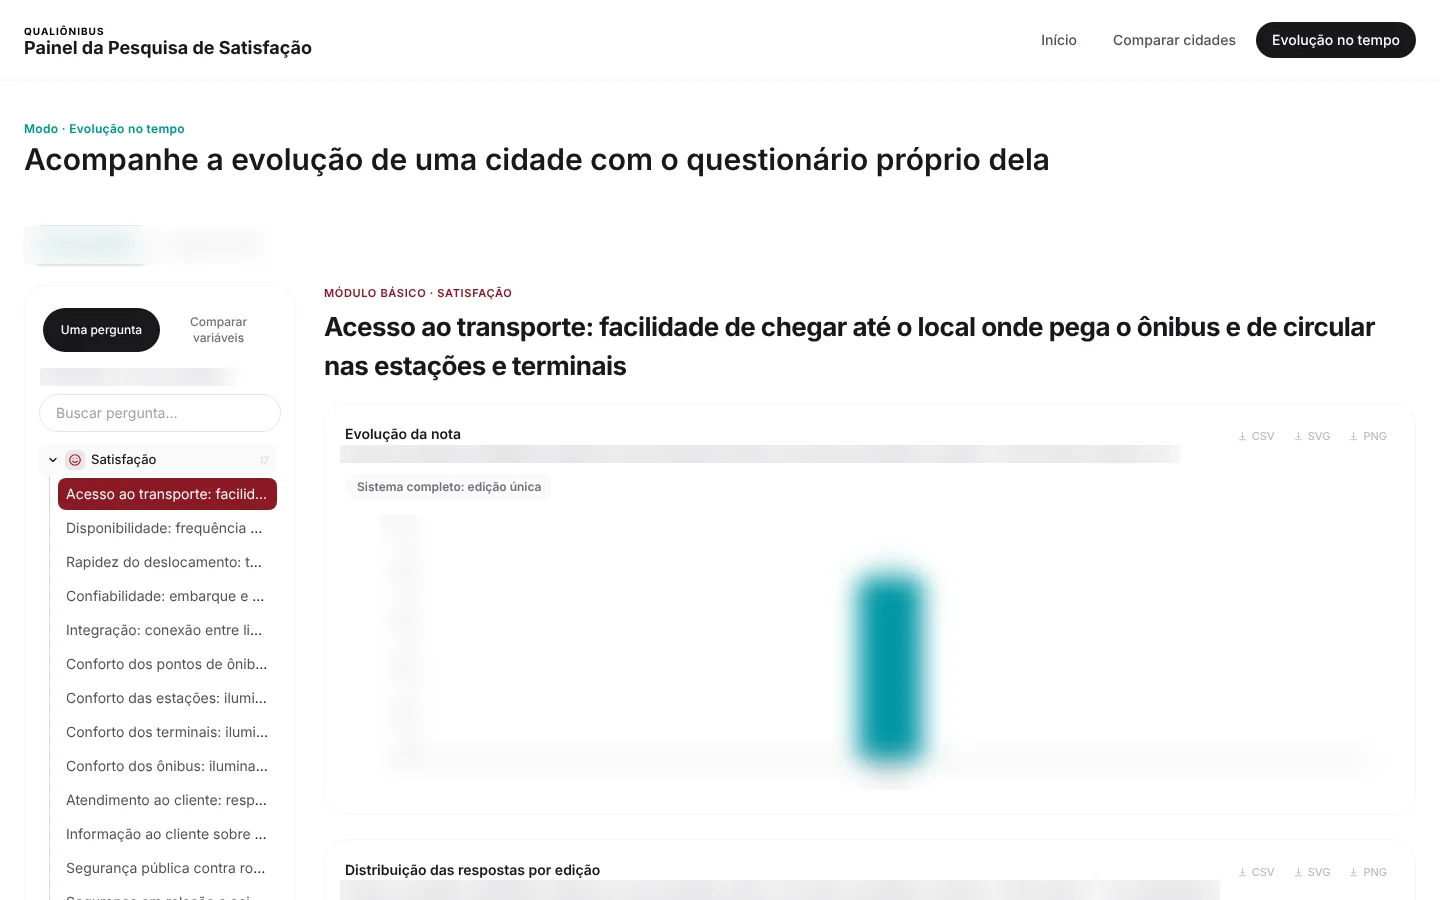
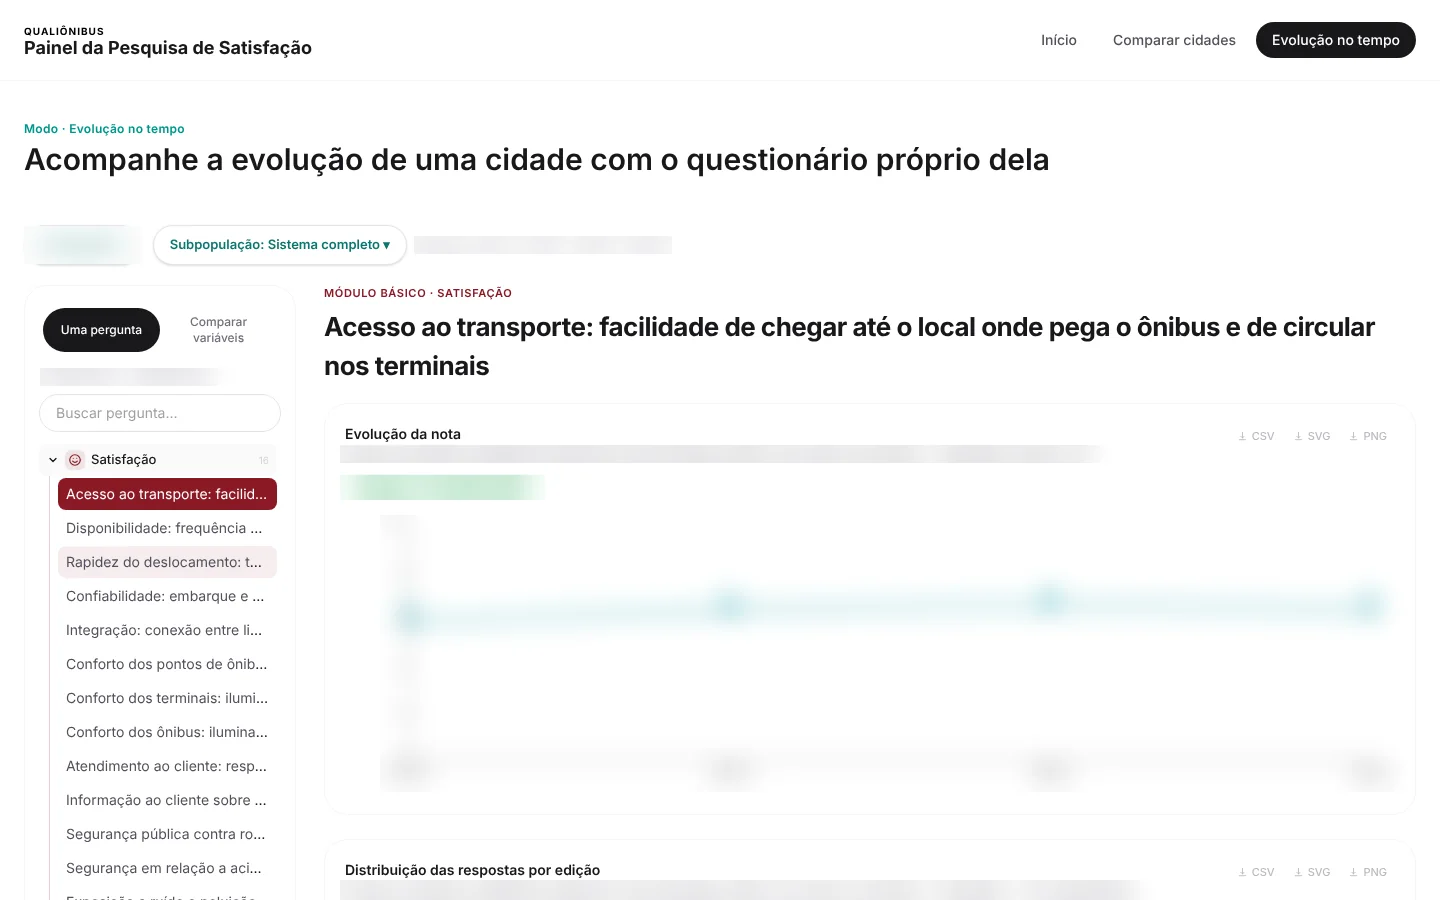
LinkedIn, hover sem voltar ao cinza no topo, prints mobile do Registro, painel com cidade de várias edições e mapas de transporte coletivo
- Botão LinkedIn ao lado de Contato e GitHub (abre em outra aba)
- Hexágono na classe máxima não volta ao cinza ao passar o mouse
- Painel: segundo print com Teresópolis (4 edições), cidade e valores ocultados
- Registro de despesas: prints da versão mobile
- Mapas de Porto Alegre e Fortaleza (pontos qualificados, grupos focais e renda) na seção de mapas

Claude-Session: https://claude.ai/code/session_01RiH8Abw6adxv4Trj2kosBL

diff --git a/index.html b/index.html
@@ -68,6 +68,7 @@
       <div class="cta">
         <a class="btn" href="mailto:edsonvargas125@gmail.com"><i class="fa-solid fa-envelope"></i> Contato</a>
         <a class="btn" href="https://github.com/edinhonhonho" target="_blank" rel="noopener noreferrer"><i class="fa-brands fa-github"></i> GitHub</a>
+        <a class="btn" href="https://www.linkedin.com/in/edinho" target="_blank" rel="noopener noreferrer"><i class="fa-brands fa-linkedin"></i> LinkedIn</a>
       </div>
     </div>
   </div>
@@ -249,6 +250,36 @@
             </a>
           </div>
         </article>
+        <article class="card map-group">
+          <header><h4>Transporte coletivo · Porto Alegre</h4><p>Pontos de ônibus qualificados, grupos focais e renda familiar per capita</p></header>
+          <div class="map-tiles">
+            <a class="tile" href="mapas/poa-grupos-focais.webp" target="_blank" rel="noopener" title="Porto Alegre: grupos focais e renda familiar per capita">
+              <img loading="lazy" draggable="false" src="mapas/poa-grupos-focais-thumb.webp" alt="Mapa: Porto Alegre: grupos focais e renda familiar per capita">
+              <span>Grupos focais</span>
+            </a>
+            <a class="tile" href="mapas/poa-pontos.webp" target="_blank" rel="noopener" title="Porto Alegre: pontos de ônibus qualificados sobre imagem de satélite">
+              <img loading="lazy" draggable="false" src="mapas/poa-pontos-thumb.webp" alt="Mapa: Porto Alegre: pontos de ônibus qualificados sobre imagem de satélite">
+              <span>Pontos qualificados</span>
+            </a>
+            <a class="tile" href="mapas/poa-renda-pontos.webp" target="_blank" rel="noopener" title="Porto Alegre: pontos de ônibus qualificados e renda familiar per capita">
+              <img loading="lazy" draggable="false" src="mapas/poa-renda-pontos-thumb.webp" alt="Mapa: Porto Alegre: pontos de ônibus qualificados e renda familiar per capita">
+              <span>Pontos e renda</span>
+            </a>
+          </div>
+        </article>
+        <article class="card map-group">
+          <header><h4>Transporte coletivo · Fortaleza</h4><p>Pontos de ônibus qualificados e renda familiar per capita</p></header>
+          <div class="map-tiles">
+            <a class="tile" href="mapas/fortaleza-pontos.webp" target="_blank" rel="noopener" title="Fortaleza: pontos de ônibus qualificados sobre imagem de satélite">
+              <img loading="lazy" draggable="false" src="mapas/fortaleza-pontos-thumb.webp" alt="Mapa: Fortaleza: pontos de ônibus qualificados sobre imagem de satélite">
+              <span>Pontos qualificados</span>
+            </a>
+            <a class="tile" href="mapas/fortaleza-renda.webp" target="_blank" rel="noopener" title="Fortaleza: pontos de ônibus qualificados e renda familiar per capita">
+              <img loading="lazy" draggable="false" src="mapas/fortaleza-renda-thumb.webp" alt="Mapa: Fortaleza: pontos de ônibus qualificados e renda familiar per capita">
+              <span>Pontos e renda</span>
+            </a>
+          </div>
+        </article>
         </div>
       </div>
     </section>
@@ -295,6 +326,8 @@
           <p>Aplicação para registrar despesas de viagem com foto ou arquivo da nota fiscal, categoria, valor e descrição. Organiza os gastos por viagem, anexa o cartão de embarque e gera o relatório da viagem para o reembolso.</p>
           <ul class="chips"><li>React</li><li>Vite</li><li>Tailwind CSS</li><li>jsPDF</li></ul>
           <div class="prints"><a href="prints/desp-registro.webp" target="_blank" rel="noopener"><img loading="lazy" src="prints/desp-registro.webp" alt="Tela de registro de uma despesa" width="1440" height="900"></a><a href="prints/desp-viagens.webp" target="_blank" rel="noopener"><img loading="lazy" src="prints/desp-viagens.webp" alt="Tela de viagens; nomes, datas e valores ocultados" width="1440" height="900"></a></div>
+          <p class="prints-label">Versão mobile</p>
+          <div class="prints mobile"><a href="prints/desp-mobile-registro.webp" target="_blank" rel="noopener"><img loading="lazy" src="prints/desp-mobile-registro.webp" alt="Versão mobile: registro de uma despesa" width="780" height="1688"></a><a href="prints/desp-mobile-viagens.webp" target="_blank" rel="noopener"><img loading="lazy" src="prints/desp-mobile-viagens.webp" alt="Versão mobile: viagens, com nomes, datas e valores ocultados" width="780" height="1688"></a></div>
           <p class="ctx">Sistema de acesso restrito. Informações ocultadas nas imagens.</p>
         </article>
       </div>

diff --git a/styles.css b/styles.css
@@ -410,3 +410,8 @@ a:focus-visible, input:focus-visible { outline: 2px solid var(--red); outline-of
 .tile img { display: block; width: 100%; aspect-ratio: 4 / 3; object-fit: cover; object-position: left top; border: 1px solid var(--line); border-radius: 8px; background: #fff; transition: border-color .2s; }
 .tile:hover img { border-color: var(--red); }
 .tile span { font-size: .72rem; line-height: 1.25; color: var(--muted); }
+
+/* Mobile screenshots inside a card */
+.prints-label { margin-top: 10px; font-size: .78rem; font-weight: 700; color: var(--muted); }
+.prints.mobile { grid-template-columns: repeat(auto-fit, minmax(0, 210px)); justify-content: start; margin-top: 0; }
+.prints.mobile a { border-radius: 20px; }

diff --git a/script.js b/script.js
@@ -44,7 +44,8 @@
     const PALETTE = (svg.dataset.palette || '#d3d3d0,#96bd3c,#e6d20f,#f3ad00,#ea670f,#ec1a37').split(',');
     const REST = 0.96;
     const calm = window.matchMedia('(prefers-reduced-motion: reduce)').matches;
-    const next = l => (l + 1) % PALETTE.length;
+    // One class up, but never past the top class (it does not wrap back to grey)
+    const next = l => Math.min(l + 1, PALETTE.length - 1);
 
     const hexes = [...svg.querySelectorAll('polygon')].map(el => {
         const b = el.getBBox();
